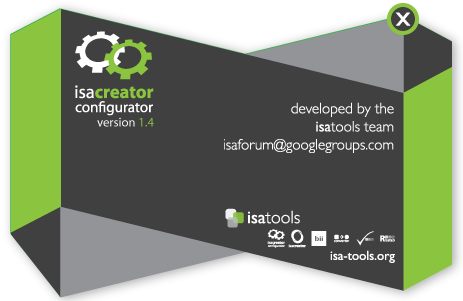
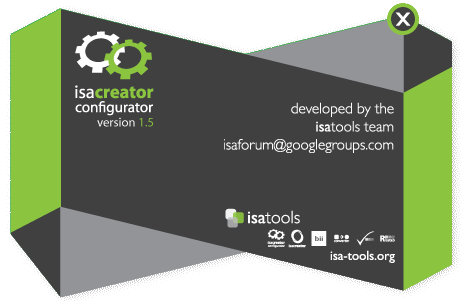
Readying for 1.5 release.

diff --git a/src/main/java/org/isatools/isacreatorconfigurator/configui/ISAcreatorConfigurator.java b/src/main/java/org/isatools/isacreatorconfigurator/configui/ISAcreatorConfigurator.java
@@ -128,7 +128,7 @@ public class ISAcreatorConfigurator extends AnimatableJFrame {
     }
 
     public void creatGUI() {
-        setTitle("ISAcreator Configurator");
+        setTitle("ISAcreator Configurator 1.5");
         setIconImage(isaConfigLogo);
         setLayout(new BorderLayout());
         setPreferredSize(new Dimension(APP_WIDTH, APP_HEIGHT));
